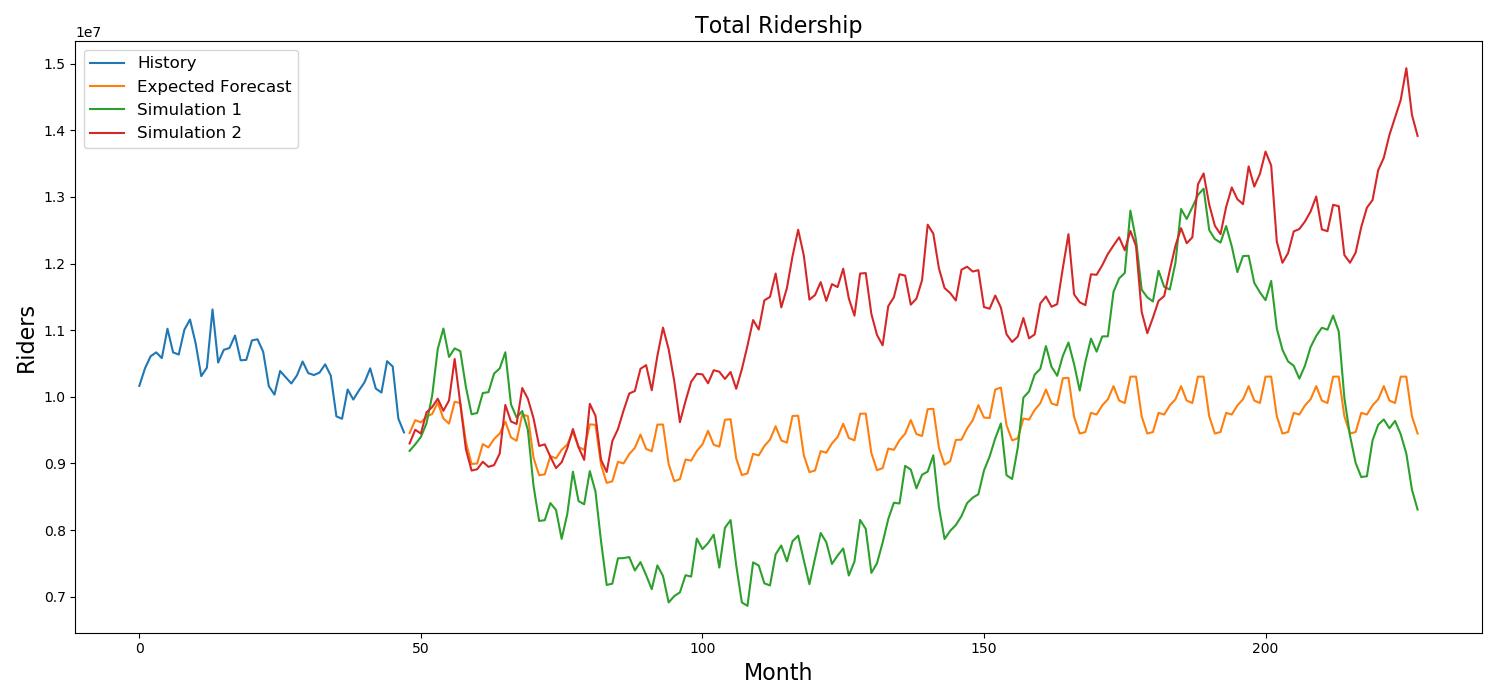
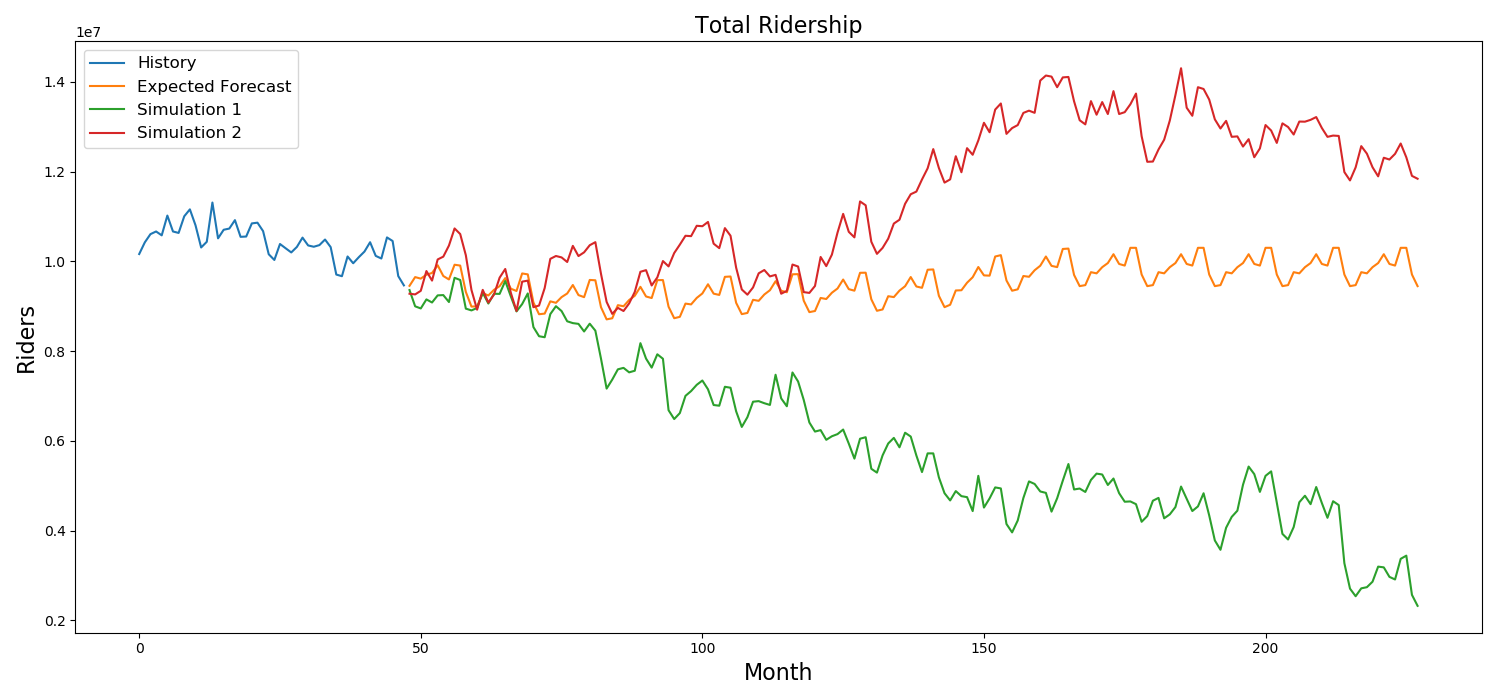
Revenue

diff --git a/Project/Given_Files/bart_class.py b/Project/Given_Files/bart_class.py
@@ -57,7 +57,7 @@ class BART:
 		if 'R' in self.regular_classes: #might be kept 
 			self.regular_classes.remove('R')
 
-	def forecast_ridership(self):
+	def forecast_ridership(self, forecast_horizon):
 
 		# ------------------------------ #
 		# Data collection
@@ -143,14 +143,13 @@ class BART:
 		model_fit = model.fit()
 		resid = model_fit.resid
 		total_last = total['old'].iloc[-1] + total['new'].iloc[-1]
-		forecast = (33-18)*12
-		pred_diff = np.array(model_fit.forecast(forecast))
+		pred_diff = np.array(model_fit.forecast(forecast_horizon))
 		pred_total_old = np.array(total['old'].iloc[-1] + np.cumsum(pred_diff))
 		pred_diff_adj = np.zeros(len(pred_diff))
 
 		prev = 0
 		pred_diff_cum = np.cumsum(pred_diff)
-		for i in range(int(forecast/12)):
+		for i in range(int(forecast_horizon/12)):
 		    bart_pchange = 0
 		    bart_weight = 1
 		    last_riders = total_last + prev
@@ -175,7 +174,7 @@ class BART:
 		mu, sigma = stats.norm.fit(np.array(resid))
 
 		n_sim = 1000
-		innovations = stats.norm.rvs(loc=0, scale=sigma, size=(n_sim, forecast))
+		innovations = stats.norm.rvs(loc=0, scale=sigma, size=(n_sim, forecast_horizon))
 		sim_diff = innovations + pred_diff_adj
 		self.ridership_forecast = (total_last + np.cumsum(sim_diff, axis=1))*30/7
 
@@ -221,7 +220,7 @@ class BART:
 			# Expected forecast
 			fig, ax = plt.subplots(figsize=(15,7))		
 			ax.plot(np.arange(history), hist_total, label='History')
-			ax.plot(np.arange(history, history+forecast), pred_total_adj, label='Forecast')
+			ax.plot(np.arange(history, history+forecast_horizon), pred_total_adj, label='Forecast')
 			ax.set_title('Total Ridership', fontsize=fontsize)
 			ax.set_xlabel('Month', fontsize=fontsize)
 			ax.set_ylabel('Riders', fontsize=fontsize)
@@ -234,9 +233,9 @@ class BART:
 			# Sample simulations
 			fig, ax = plt.subplots(figsize=(15,7))
 			ax.plot(np.arange(history), hist_total, label='History')
-			ax.plot(np.arange(history, history+forecast), pred_total_adj, label='Expected Forecast')
-			ax.plot(np.arange(history, history+forecast), self.ridership_forecast[0], label='Simulation 1')
-			ax.plot(np.arange(history, history+forecast), self.ridership_forecast[2], label='Simulation 2')
+			ax.plot(np.arange(history, history+forecast_horizon), pred_total_adj, label='Expected Forecast')
+			ax.plot(np.arange(history, history+forecast_horizon), self.ridership_forecast[0], label='Simulation 1')
+			ax.plot(np.arange(history, history+forecast_horizon), self.ridership_forecast[2], label='Simulation 2')
 			ax.set_title('Total Ridership', fontsize=fontsize)
 			ax.set_xlabel('Month', fontsize=fontsize)
 			ax.set_ylabel('Riders', fontsize=fontsize)
@@ -246,6 +245,23 @@ class BART:
 
 
 			plt.show()
+
+	def forecast_revenue(self):
+		forecast = (33-18)*12
+		self.T = forecast
+
+		# Forecast Ridership
+		self.forecast_ridership(forecast)
+
+		# Fairs
+		last_fair = 481.8/120.554 # FY18
+			# FY18 increase 2.7%
+			# FY16 increase 3.4%
+		p_increase_2y = 0.03
+		fares = np.ones(self.T)
+		fares[1::2] = 1 + p_increase_2y
+		fares = last_fair*np.cumprod(fares)
+		self.forecast_revenue = self.ridership_forecast*fares.reshape(1,-1)
 
 	def calculate_cashflows(self):
 		"""

diff --git a/Project/Given_Files/temporal_main.py b/Project/Given_Files/temporal_main.py
@@ -3,7 +3,8 @@
 import bart_class
 
 bart = bart_class.BART()
-bart.forecast_ridership()
+#bart.forecast_ridership()
+bart.forecast_revenue()
 
 
 
